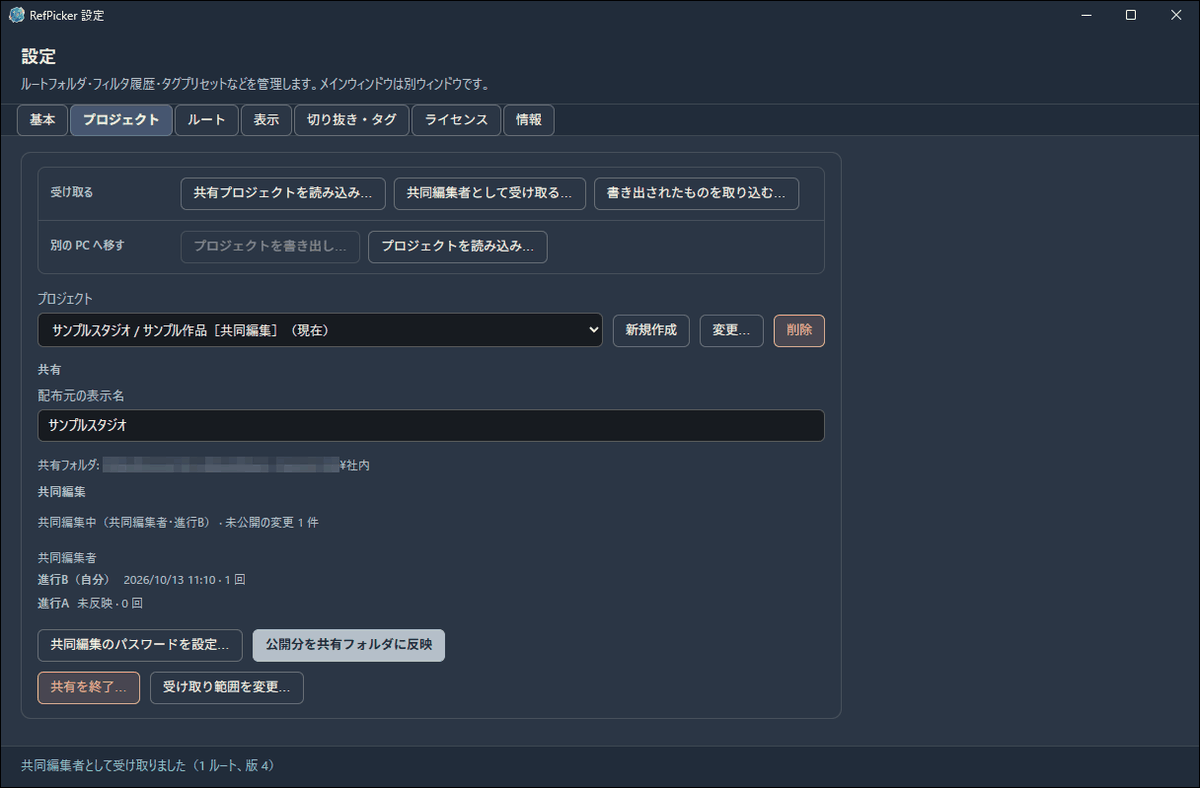
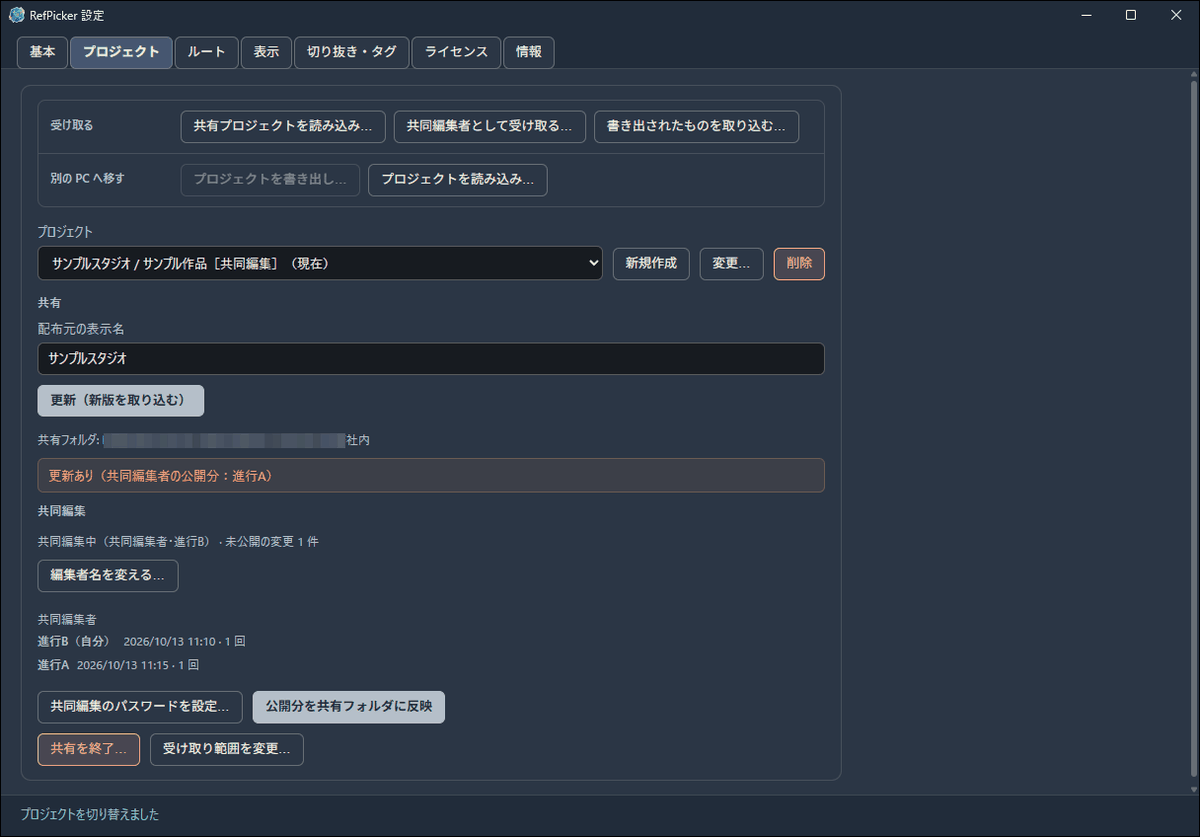
docs: 0.4.2 のライセンスが使えなくなったときの案内と期限のあるキーを足し、設定ウィンドウの図を撮り直す
record-for-ai の調整台帳 2026-11-01-v042（ユーザー検収済み）を反映。
USER_GUIDE §2.3 に「使えなくなったとき」と「期限のあるキー」を新設し（RefPicker 在庫 #138）、
§2.2 の「ヘッダー直下に」を「ウィンドウの上に」に直した（オーダー297 で見出しが無くなった）。
0.4.2 の CHANGELOG を足した。

図は 20・20_add・25・160・165 の 5 枚。どれも消えた見出しと、引退済みの
「タグプリセット」を含む古い説明文が写っていた。0.4.2 のリリース版で撮り直した。

Changed region(s): [[0.0, 0.0, 0.7092, 0.9137], [0.9867, 0.0914, 1.0, 0.9442], [0.0, 0.9442, 0.2158, 1.0]]

diff --git a/CHANGELOG.md b/CHANGELOG.md
@@ -4,6 +4,26 @@
 
 ---
 
+## [0.4.2] - 2026-11-01
+
+### 追加
+
+- **ライセンス画面で、期限のあるキーに期限を出すようにしました。** キーの行に「（○年○月○日まで）」が付きます。期限の無いキーには何も出ません。
+
+### 変更
+
+- **ライセンスの期限が切れたとき、「期限切れ」と伝えるようにしました。** 「キーの期限（○月○日）が切れました。続けて使うには、配布元に延長を頼んでください。」と出ます。キーの貼り直しや購入は促しません。以前は「キーが欠けていないか貼り直して」（貼り直しても通りません）や「無料版として使えます」と出ていました。
+- **「再検証」を、期限切れ・再確認が必要・有効ではないときにも押せるようにしました。** 延長や再契約がアプリの外で済んだあと、アプリを開き直さずにその場で戻せます。
+- **キーがあって止まっているときは、買うと使える機能の一覧ではなく、今の状態と次の一手を出すようにしました。** 設定の「ライセンス」タブの「現在:」と、共有の欄の表示も同じ言い方にそろえました。
+- ライセンスで止まっているあいだは、共有の欄で押せないボタンへ案内しないようにしました。
+- **設定ウィンドウのタブの上にあった見出し「設定」と説明文を外しました。** タイトルバーと二重で、説明文の中身も古くなっていました。
+
+### 修正
+
+- 同梱の第三者ライセンス表示（`THIRD-PARTY-NOTICES.txt`）で、同じ本文が何度も載っていたのをまとめ、改行の混ざりを直しました。
+
+---
+
 ## [0.4.1] - 2026-10-20
 
 ### 追加
